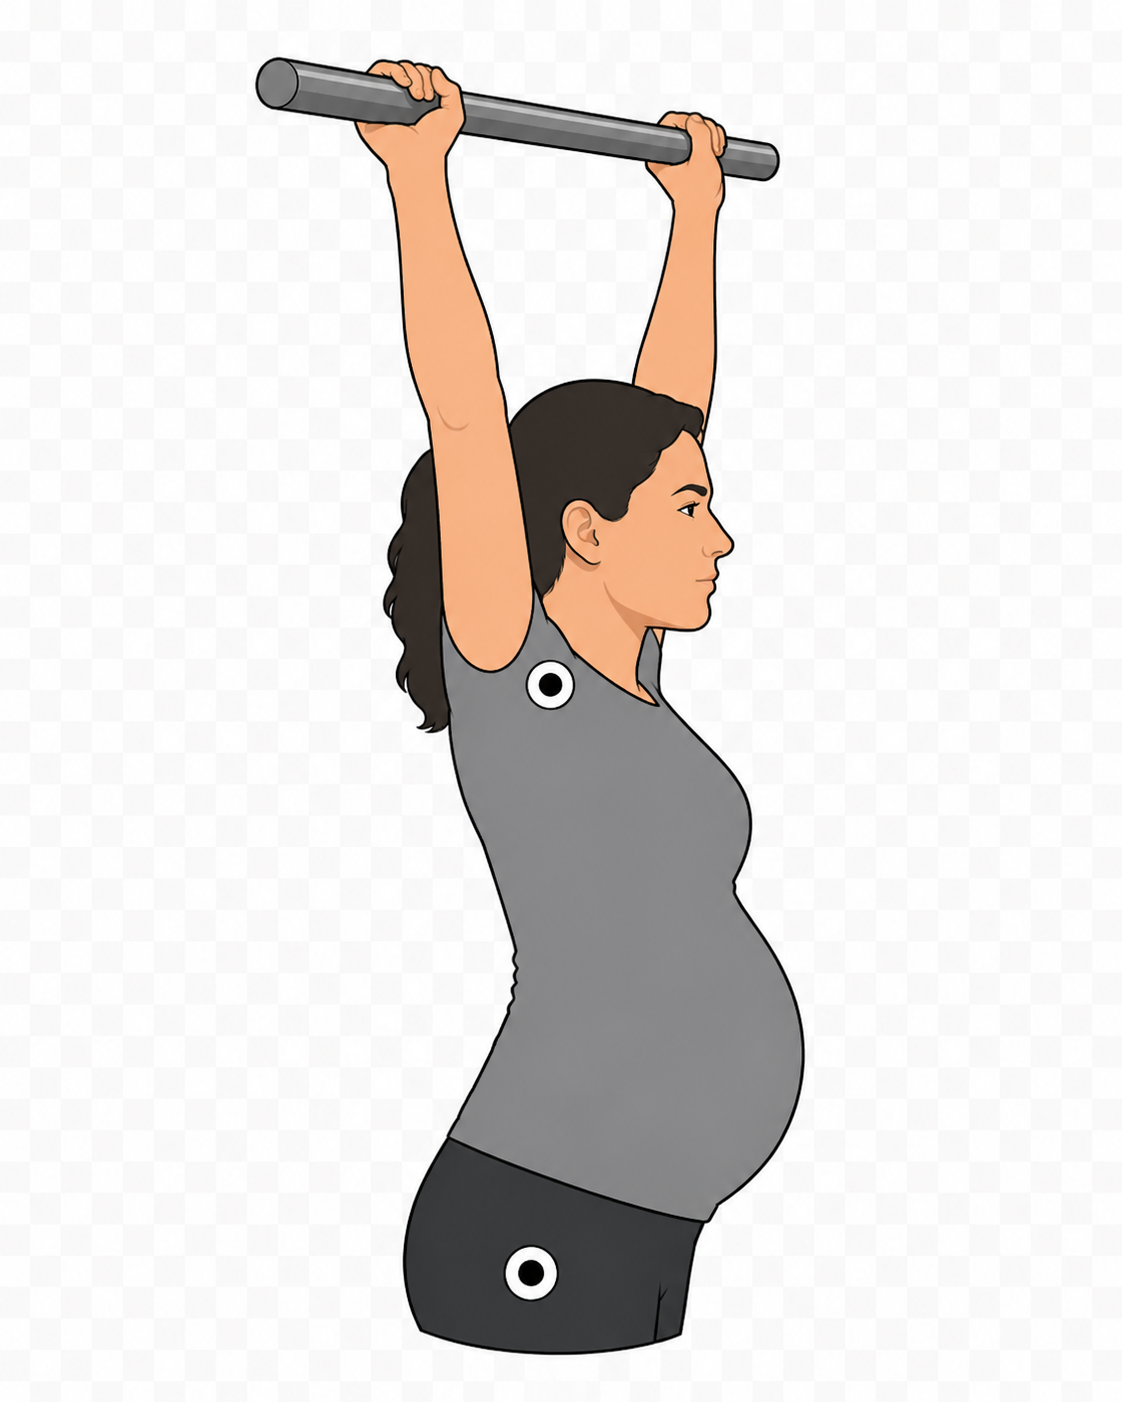
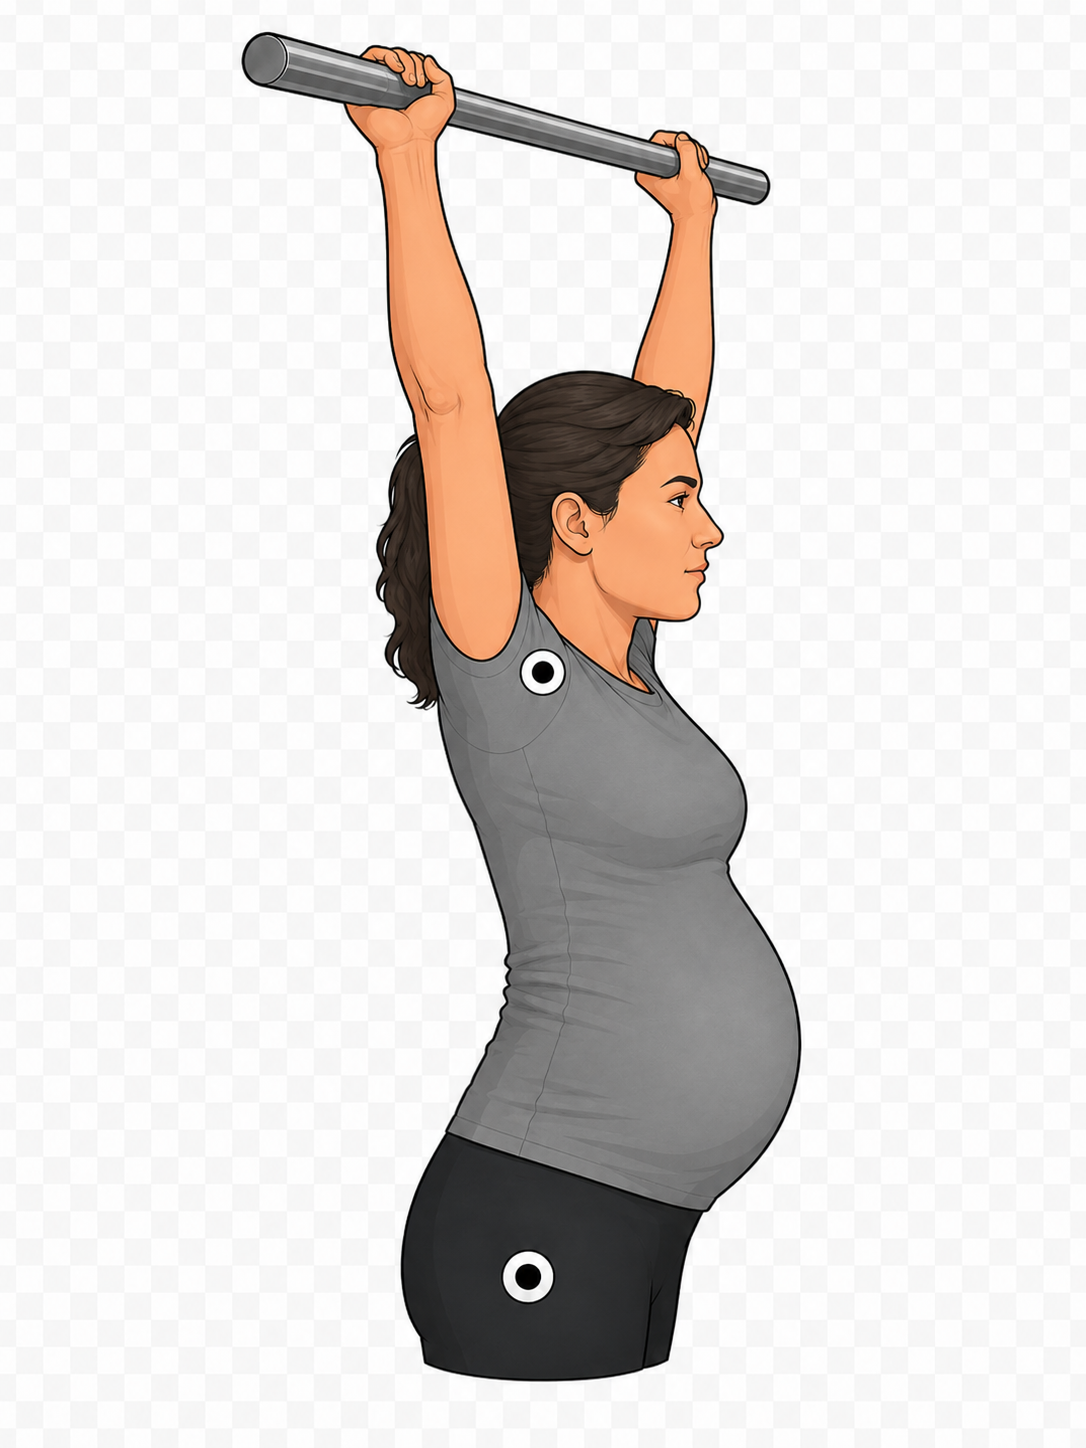
Condense tutorial layout and refresh overhead sprite

Changed region(s): [[0.2127, 0.0, 0.7597, 0.9815]]

diff --git a/src/squat_gui/app.py b/src/squat_gui/app.py
@@ -108,7 +108,6 @@ class SquatGui(tk.Tk):
         self.status_var = tk.StringVar(value=detect_optional_backends().message)
         self.didactic_mode_var = tk.BooleanVar(value=False)
         self.didactic_step = 0
-        self.didactic_text_var = tk.StringVar(value="")
 
         self._build_layout()
         self.recompute()
@@ -124,46 +123,53 @@ class SquatGui(tk.Tk):
 
         root = ttk.Frame(self, padding=10)
         root.pack(fill="both", expand=True)
-        root.columnconfigure(0, weight=0, minsize=315)
+        root.columnconfigure(0, weight=0, minsize=420)
         root.columnconfigure(1, weight=1)
         root.columnconfigure(2, weight=1)
-        root.rowconfigure(0, weight=1)
-        root.rowconfigure(2, weight=2)
+        root.rowconfigure(0, weight=1, minsize=420)
+        root.rowconfigure(2, weight=3, minsize=320)
 
         left = ttk.Frame(root)
         left.grid(row=0, column=0, sticky="nsew", padx=(0, 8))
         left.columnconfigure(0, weight=1)
-        left.rowconfigure(3, weight=1)
-
         guide_box = ttk.LabelFrame(left, text="Parcours didactique")
         guide_box.grid(row=0, column=0, sticky="ew", pady=(0, 8))
-        guide_box.columnconfigure(0, weight=1)
+        guide_box.columnconfigure(1, weight=1)
         ttk.Checkbutton(
             guide_box,
             text="activer",
             variable=self.didactic_mode_var,
             command=self.update_didactic_guide,
-        ).grid(row=0, column=0, sticky="w", padx=4)
-        ttk.Button(guide_box, text="Etape suivante", command=self.advance_didactic_guide).grid(row=0, column=1, padx=4, pady=3)
-        self.didactic_label = tk.Label(
+        ).grid(row=0, column=0, sticky="w", padx=4, pady=3)
+        self.didactic_label = tk.Text(
             guide_box,
-            textvariable=self.didactic_text_var,
-            justify="left",
-            anchor="w",
-            wraplength=288,
+            height=1,
+            width=34,
+            wrap="none",
+            relief="flat",
+            borderwidth=0,
             bg="#f2f4f1",
             fg="#22312a",
-            padx=5,
-            pady=5,
+            font=("Helvetica", 9),
+            padx=4,
+            pady=4,
         )
-        self.didactic_label.grid(row=1, column=0, columnspan=2, sticky="ew")
+        self.didactic_label.grid(row=0, column=1, sticky="ew", padx=2)
+        self.didactic_label.tag_configure("sujet", foreground="#16756d", font=("Helvetica", 9, "bold"))
+        self.didactic_label.tag_configure("barre", foreground="#b05e16", font=("Helvetica", 9, "bold"))
+        self.didactic_label.tag_configure("charge", foreground="#237f9f", font=("Helvetica", 9, "bold"))
+        self.didactic_label.tag_configure("phase", foreground="#6d5ea8", font=("Helvetica", 9, "bold"))
+        self.didactic_label.tag_configure("pose", foreground="#2e7d54", font=("Helvetica", 9, "bold"))
+        self.didactic_label.tag_configure("alerte", foreground="#c9332c", font=("Helvetica", 9, "bold"))
+        ttk.Button(guide_box, text="Suivant", command=self.advance_didactic_guide).grid(row=0, column=2, padx=4, pady=3)
         self.update_didactic_guide()
 
         parameter_box = ttk.LabelFrame(left, text="Parametres")
         parameter_box.grid(row=1, column=0, sticky="ew", pady=(0, 8))
         parameter_box.columnconfigure(0, weight=1)
+        parameter_box.columnconfigure(1, weight=1)
         identity = ttk.Frame(parameter_box)
-        identity.grid(row=0, column=0, sticky="ew", padx=4, pady=3)
+        identity.grid(row=0, column=0, columnspan=2, sticky="ew", padx=4, pady=3)
         identity.columnconfigure(0, weight=1)
         identity.columnconfigure(1, weight=1)
         ttk.Label(identity, text="Sujet").grid(row=0, column=0, sticky="w")
@@ -174,9 +180,9 @@ class SquatGui(tk.Tk):
         bar_menu = ttk.Combobox(identity, textvariable=self.bar_position_var, values=BAR_POSITIONS, state="readonly", width=12)
         bar_menu.grid(row=1, column=1, sticky="ew", padx=(3, 0))
         bar_menu.bind("<<ComboboxSelected>>", lambda _event: self.on_parameter_changed())
-        self._add_scale(parameter_box, "Charge %BW (sujet 70 kg)", self.load_var, 0, 150, 5, 1)
+        self._add_scale(parameter_box, "Charge %BW (sujet 70 kg)", self.load_var, 0, 100, 10, 1, 2)
         duration_box = ttk.LabelFrame(parameter_box, text="Durees des phases (s)")
-        duration_box.grid(row=2, column=0, sticky="ew", padx=4, pady=3)
+        duration_box.grid(row=2, column=0, sticky="ew", padx=(4, 2), pady=3)
         for column, (label, variable) in enumerate(
             (
                 ("excent.", self.eccentric_duration_var),
@@ -186,19 +192,19 @@ class SquatGui(tk.Tk):
         ):
             duration_box.columnconfigure(column, weight=1)
             ttk.Label(duration_box, text=label).grid(row=0, column=column)
-            duration = ttk.Combobox(duration_box, textvariable=variable, values=(2.0, 2.5, 3.0, 3.5, 4.0), state="readonly", width=7)
+            duration = ttk.Combobox(duration_box, textvariable=variable, values=(2.0, 2.5, 3.0, 3.5, 4.0), state="readonly", width=4)
             duration.grid(row=1, column=column, sticky="ew", padx=2, pady=(0, 3))
             duration.bind("<<ComboboxSelected>>", lambda _event: self.on_parameter_changed())
         lengths = ttk.LabelFrame(parameter_box, text="Longueurs (%)")
-        lengths.grid(row=3, column=0, sticky="ew", padx=4, pady=3)
+        lengths.grid(row=2, column=1, sticky="ew", padx=(2, 4), pady=3)
         for column, (label, variable) in enumerate((("tibia", self.shank_var), ("cuisse", self.thigh_var), ("tronc", self.trunk_var))):
             lengths.columnconfigure(column, weight=1)
             ttk.Label(lengths, text=label).grid(row=0, column=column)
-            length_menu = ttk.Combobox(lengths, textvariable=variable, values=(-5.0, -2.5, 0.0, 2.5, 5.0), state="readonly", width=7)
+            length_menu = ttk.Combobox(lengths, textvariable=variable, values=(-5.0, -2.5, 0.0, 2.5, 5.0), state="readonly", width=4)
             length_menu.grid(row=1, column=column, sticky="ew", padx=2, pady=(0, 3))
             length_menu.bind("<<ComboboxSelected>>", lambda _event: self.on_parameter_changed())
         options = ttk.Frame(parameter_box)
-        options.grid(row=4, column=0, sticky="ew", padx=4, pady=(3, 4))
+        options.grid(row=3, column=0, columnspan=2, sticky="ew", padx=4, pady=(3, 4))
         ttk.Checkbutton(options, text="wedge 20 deg", variable=self.wedge_var, command=self.on_parameter_changed).pack(side="left")
         ttk.Checkbutton(options, text="CoM segments + barre", variable=self.show_segment_com_var, command=self.redraw).pack(side="left", padx=(8, 0))
 
@@ -261,8 +267,9 @@ class SquatGui(tk.Tk):
             command=self.redraw,
         ).grid(row=3, column=3, sticky="w", padx=4, pady=(4, 2))
 
-        table_box = ttk.LabelFrame(root, text="Conditions enregistrees")
+        table_box = ttk.LabelFrame(root, text="Conditions enregistrees", width=420, height=318)
         table_box.grid(row=2, column=0, sticky="nsew", padx=(0, 8), pady=(8, 0))
+        table_box.grid_propagate(False)
         table_box.rowconfigure(1, weight=1)
         table_box.columnconfigure(0, weight=1)
         table_buttons = ttk.Frame(table_box)
@@ -308,11 +315,14 @@ class SquatGui(tk.Tk):
         for column in columns:
             self.conditions_table.heading(column, text=headings[column])
             self.conditions_table.column(column, width=widths[column], anchor="center", stretch=True)
-        self.conditions_table.grid(row=1, column=0, sticky="nsew", padx=4, pady=4)
+        self.conditions_table.grid(row=1, column=0, sticky="nsew", padx=4, pady=(4, 0))
+        table_scroll = ttk.Scrollbar(table_box, orient="horizontal", command=self.conditions_table.xview)
+        table_scroll.grid(row=2, column=0, sticky="ew", padx=4, pady=(0, 4))
+        self.conditions_table.configure(xscrollcommand=table_scroll.set)
         self.conditions_table.bind("<<TreeviewSelect>>", self.on_table_selection_changed)
         self.conditions_table.bind("<Button-1>", self.on_table_click)
         file_box = ttk.Frame(table_box)
-        file_box.grid(row=2, column=0, sticky="ew", padx=4, pady=(0, 4))
+        file_box.grid(row=3, column=0, sticky="ew", padx=4, pady=(0, 4))
         file_box.columnconfigure(0, weight=1)
         file_box.columnconfigure(1, weight=1)
         ttk.Button(file_box, text="Sauver conditions", command=self.save_json).grid(row=0, column=0, sticky="ew", padx=(0, 3))
@@ -354,9 +364,19 @@ class SquatGui(tk.Tk):
 
         ttk.Label(root, textvariable=self.status_var).grid(row=3, column=0, columnspan=3, sticky="ew", pady=(8, 0))
 
-    def _add_scale(self, parent: ttk.Frame, label: str, var: tk.DoubleVar, start: float, end: float, resolution: float, column: int) -> None:
+    def _add_scale(
+        self,
+        parent: ttk.Frame,
+        label: str,
+        var: tk.DoubleVar,
+        start: float,
+        end: float,
+        resolution: float,
+        row: int,
+        columnspan: int = 1,
+    ) -> None:
         box = ttk.LabelFrame(parent, text=label)
-        box.grid(row=column, column=0, sticky="ew", padx=4, pady=2)
+        box.grid(row=row, column=0, columnspan=columnspan, sticky="ew", padx=4, pady=2)
         box.columnconfigure(0, weight=1)
         scale = ttk.Scale(box, variable=var, from_=start, to=end, orient="horizontal", command=lambda _value: self.on_parameter_changed())
         scale.grid(row=0, column=0, sticky="ew", padx=4)
@@ -375,24 +395,29 @@ class SquatGui(tk.Tk):
 
     def update_didactic_guide(self) -> None:
         steps = (
-            "1. Choisir le sujet: homme ou femme enceinte.",
-            "2. Selectionner la position de barre: front, back ou over-head.",
-            "3. Regler la charge. Le point de depart est 0 % du poids corporel.",
-            "4. Choisir les durees excentrique, isometrique et concentrique.",
-            "5. Glisser les articulations pour construire la position basse.",
-            "6. Lancer l'animation et observer l'equilibre et les efforts.",
-            "7. Examiner successivement cinematique, centre de masse puis couples.",
-            "8. Cliquer sur Ajouter pour conserver cet essai.",
-            "9. Generer un deuxieme cas en changeant un parametre.",
-            "10. Selectionner les deux lignes pour comparer les performances.",
-            "Avance: longueurs, couples max et couples detailles.",
+            (("1. Choisir le ", None), ("sujet", "sujet"), (": homme ou femme enceinte.", None)),
+            (("2. Selectionner la ", None), ("barre", "barre"), (": front, back ou over-head.", None)),
+            (("3. Regler la ", None), ("charge", "charge"), ("; commencer a 0 %BW.", None)),
+            (("4. Choisir les trois ", None), ("durees de phase", "phase"), (".", None)),
+            (("5. Glisser les articulations pour la ", None), ("position basse", "pose"), (".", None)),
+            (("6. Lancer l'", None), ("animation", "pose"), (" et surveiller les ", None), ("alertes", "alerte"), (".", None)),
+            (("7. Voir cinematique, CoM puis ", None), ("couples", "barre"), (".", None)),
+            (("8. Cliquer sur ", None), ("Ajouter", "pose"), (" pour conserver l'essai.", None)),
+            (("9. Generer un autre cas en changeant un ", None), ("parametre", "charge"), (".", None)),
+            (("10. Selectionner deux lignes pour ", None), ("comparer", "phase"), (".", None)),
+            (("Avance: longueurs, couples max et couples detailles.", None),),
         )
+        self.didactic_label.configure(state="normal")
+        self.didactic_label.delete("1.0", "end")
         if self.didactic_mode_var.get():
-            self.didactic_text_var.set(steps[self.didactic_step])
             self.didactic_label.configure(bg="#e5f1e8", fg="#154a34")
+            pieces = steps[self.didactic_step]
         else:
-            self.didactic_text_var.set("Activer pour guider une exploration etape par etape.")
             self.didactic_label.configure(bg="#f2f4f1", fg="#506158")
+            pieces = (("Activer pour guider une exploration etape par etape.", None),)
+        for text, tag in pieces:
+            self.didactic_label.insert("end", text, () if tag is None else (tag,))
+        self.didactic_label.configure(state="disabled")
 
     def advance_didactic_guide(self) -> None:
         if not self.didactic_mode_var.get():
@@ -824,19 +849,20 @@ class SquatGui(tk.Tk):
             draw_segment(canvas, segments["trunk_bar"], pose.hip, -state.q[2], self.anthro().trunk.length, mapper)
         canvas.create_line(*points["heel"], *points["toe"], width=3, fill="#333333")
         if self.anthro().wedge_angle_deg:
-            heel = points["heel"]
-            toe = points["toe"]
-            canvas.create_polygon(
+            heel = self.world_to_canvas(canvas, shifted(pose.heel), bounds)
+            toe = self.world_to_canvas(canvas, shifted(pose.toe), bounds)
+            floor_heel = self.world_to_canvas(canvas, shifted((pose.heel[0], 0.0)), bounds)
+            wedge_item = canvas.create_polygon(
                 heel[0],
                 heel[1],
                 toe[0],
                 toe[1],
-                heel[0],
-                heel[1] + 28,
+                floor_heel[0],
+                floor_heel[1],
                 fill="#d9c39b",
                 outline="#7d6542",
             )
-            canvas.create_text(heel[0] + 10, heel[1] + 20, text="20 deg", anchor="w", fill="#5d4930", font=("Helvetica", 8))
+            canvas.tag_lower(wedge_item)
 
         com = self.world_to_canvas(canvas, shifted(pose.com), bounds)
         projection = self.world_to_canvas(canvas, shifted((pose.com[0], 0.0)), bounds)
